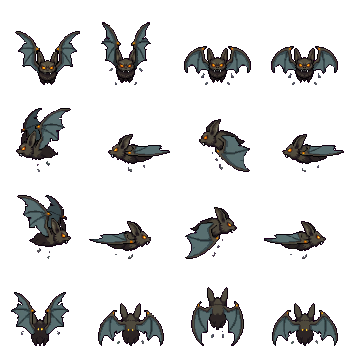
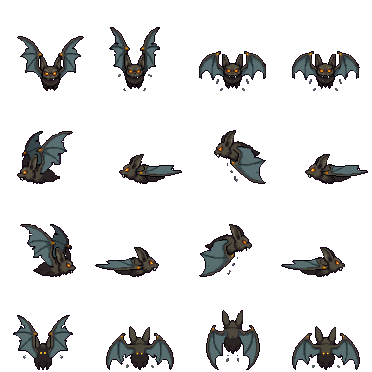
Lobo de Névoa animado; importador limpa névoa rosada e respingos soltos
Claude-Session: https://claude.ai/code/session_01R9bEA8madkQfyix1h3Gv4o

diff --git a/tools/ai-assets/import_sheet.py b/tools/ai-assets/import_sheet.py
@@ -3,6 +3,7 @@
 Uso:  python tools/ai-assets/import_sheet.py <imagem.png> <id do asset> [--height N]
       ex.: python tools/ai-assets/import_sheet.py ~/Downloads/lamina.png cacadores/lamina
       quadro defeituoso: --replace 15=13m  (o 15º passa a ser o 13º espelhado)
+      névoa ou fumaça rosada: --mist   |   manter partículas soltas: --keep-specks
 
 A imagem deve ter 4 colunas x 4 linhas (linhas: baixo, esquerda, direita, cima; 4 quadros de caminhada cada),
 com fundo transparente ou magenta liso (#FF00FF). O script:
@@ -19,7 +20,7 @@ from PIL import Image
 ROOT = os.path.dirname(os.path.dirname(os.path.dirname(os.path.abspath(__file__))))
 ANIMATED = os.path.join(ROOT, "shared/animated.json")
 
-def remove_background(img):
+def remove_background(img, mist=False):
     """Fundo transparente ou magenta -> alfa. Também limpa o halo magenta nas bordas."""
     a = np.array(img.convert("RGBA")).astype(int)
     if (a[:, :, 3] < 10).mean() > 0.2:      # já veio transparente
@@ -40,8 +41,28 @@ def remove_background(img):
     cap = g + (np.abs(r - b) // 2) + 24
     band &= (np.abs(r - b) < 45) & (np.minimum(r, b) > g + 40)   # só tons magenta; violeta (azul bem maior) fica intacto
     out[:, :, 0] = np.where(band, np.minimum(r, cap), r); out[:, :, 2] = np.where(band, np.minimum(b, cap), b)
+    if mist:
+        # Névoa e fumaça semitransparentes vêm misturadas com o magenta em toda a área, não só na borda: viram cinza-claro
+        r, g, b = out[:, :, 0].copy(), out[:, :, 1], out[:, :, 2].copy()
+        pink = alpha & (np.abs(r - b) < 60) & (np.minimum(r, b) > g + 10)
+        out[:, :, 0] = np.where(pink, g + 4, r); out[:, :, 2] = np.where(pink, g + 8, b)
     out[:, :, :3] = np.where(alpha[:, :, None], out[:, :, :3], 0)
     return out.astype(np.uint8)
+
+def drop_specks(cell):
+    """Apaga respingos soltos: fica só a maior faixa contínua de linhas e de colunas com pixels."""
+    for axis in (1, 0):
+        used = (cell[:, :, 3] > 0).any(axis=axis)
+        best, start = (0, 0, 0), None
+        for i, u in enumerate(list(used) + [False]):
+            if u and start is None: start = i
+            elif not u and start is not None:
+                mass = int((cell[start:i, :, 3] > 0).sum() if axis == 1 else (cell[:, start:i, 3] > 0).sum())
+                if mass > best[0]: best = (mass, start, i)
+                start = None
+        if axis == 1: cell[:best[1]] = 0; cell[best[2]:] = 0
+        else: cell[:, :best[1]] = 0; cell[:, best[2]:] = 0
+    return cell
 
 def shrink(arr, w, h):
     """Reduz por mediana de cada bloco: mantém as cores originais e as bordas nítidas (média borra, paleta perde detalhe)."""
@@ -60,13 +81,16 @@ def main():
     ap.add_argument("--height", type=int, default=0, help="altura do personagem em pixels (padrão: 54; chefes, 86)")
     ap.add_argument("--replace", action="append", default=[], metavar="DESTINO=ORIGEM[m]",
                     help="troca um quadro defeituoso por outro (1 a 16, lendo linha a linha); m = espelhado. Ex.: --replace 15=13m")
+    ap.add_argument("--mist", action="store_true", help="limpa o tom rosado de névoa/fumaça semitransparente (não use em personagens com magenta ou rosa)")
+    ap.add_argument("--keep-specks", action="store_true", help="mantém partículas soltas (cinzas, faíscas) em vez de apagá-las")
     args = ap.parse_args()
-    a = remove_background(Image.open(args.image))
+    a = remove_background(Image.open(args.image), args.mist)
     H, W = a.shape[:2]; cw, ch = W / 4, H / 4
     frames = []
     for i in range(16):
         x0, y0 = int(round((i % 4) * cw)), int(round((i // 4) * ch))
         cell = a[y0:int(round(y0 + ch)), x0:int(round(x0 + cw))].copy()
+        if not args.keep_specks: cell = drop_specks(cell)
         ys, xs = np.nonzero(cell[:, :, 3])
         if len(ys) == 0: raise SystemExit(f"quadro {i + 1} vazio: confira se a grade é 4x4")
         top, bottom, left, right = ys.min(), ys.max(), xs.min(), xs.max()
